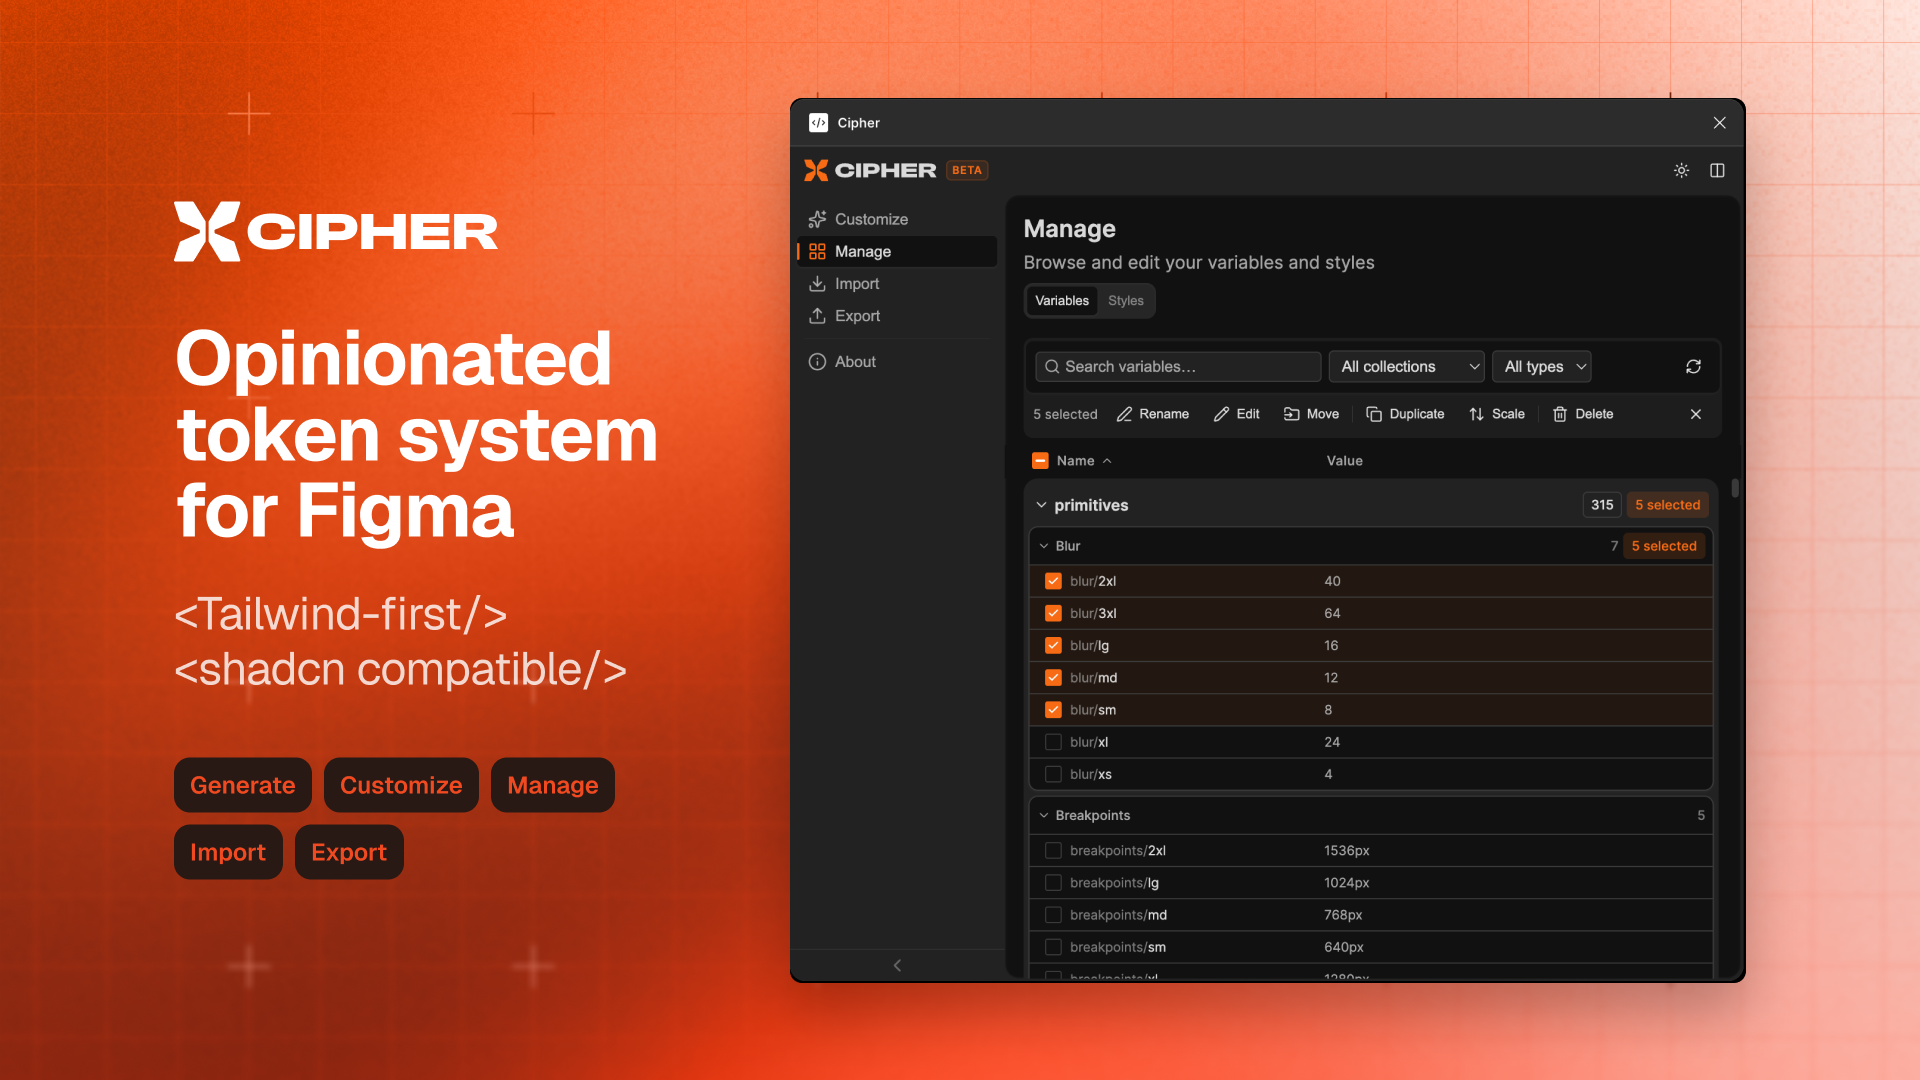
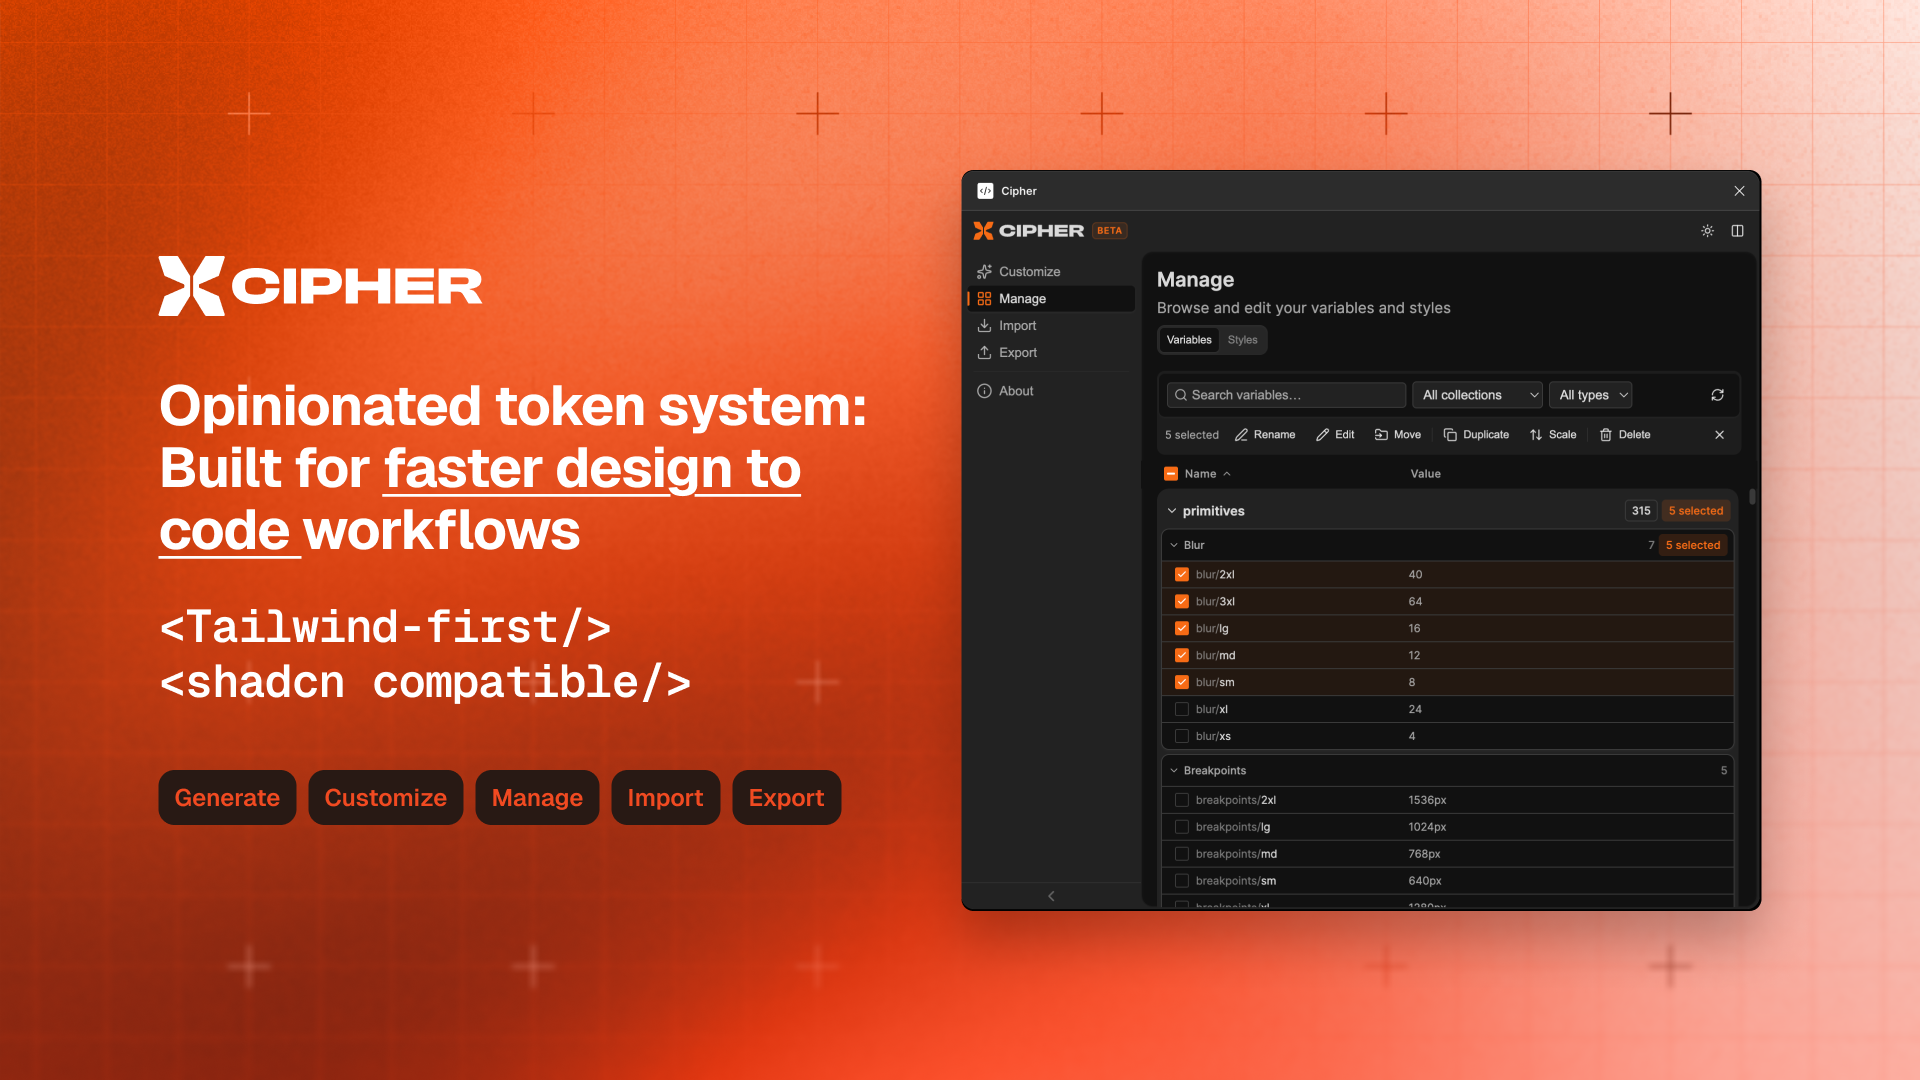
Set plugin ID, limit import to JSON only, update cover asset
- Set Figma plugin ID to 1613643367110247078
- Remove CSS import support, accept JSON files only
- Update marketplace cover image

diff --git a/components/import/FileImport.tsx b/components/import/FileImport.tsx
@@ -2,7 +2,6 @@ import { FolderOpen } from "lucide-react";
 import type React from "react";
 import { useRef, useState } from "react";
 import { usePostMessage } from "../../hooks/useFigmaMessage";
-import { parseCSS } from "../../parsers/css-parser";
 import type { ParsedTokens } from "../../types/tokens";
 import { getErrorMessage } from "../../utils/error-handler";
 import { LoadingState, useToast } from "../ui";
@@ -40,38 +39,9 @@ export function FileImport({
 	};
 
 	const parseContent = (content: string, fileName?: string) => {
-		// Detect CSS files by extension or content pattern
-		const isCSS =
-			fileName?.endsWith(".css") ||
-			(!content.trimStart().startsWith("{") &&
-				content.includes("--") &&
-				content.includes("{"));
-
-		if (isCSS) {
-			const result = parseCSS(content);
-			if (result.errors.length > 0) {
-				showError(
-					`CSS parse errors: ${result.errors.map((e) => e.message).join(", ")}`,
-				);
-			}
-			if (result.tokens.length > 0) {
-				_onTokensParsed({
-					tokens: result.tokens,
-					stats: {
-						total: result.tokens.length,
-						byCategory: {},
-						conflicts: 0,
-						errors: result.errors.length,
-					},
-					errors: result.errors.map((e) => ({
-						message: e.message,
-						line: e.line,
-						severity: "error" as const,
-					})),
-				});
-			} else {
-				showError("No CSS custom properties found in the file");
-			}
+		// Only accept JSON files
+		if (fileName && !fileName.endsWith(".json")) {
+			showError("Only JSON files are supported for import.");
 			return;
 		}
 
@@ -80,7 +50,7 @@ export function FileImport({
 			const data = JSON.parse(content);
 			if (data.$schema === "figma-styles-export") {
 				showError(
-					"This is a Figma Styles file. Import supports variable token files (JSON or CSS).",
+					"This is a Figma Styles file. Import supports variable token files (JSON).",
 				);
 				return;
 			}
@@ -141,7 +111,7 @@ export function FileImport({
 				tabIndex={0}
 			>
 				<input
-					accept=".json,.css"
+					accept=".json"
 					className={styles.hiddenInput}
 					onChange={handleFileSelect}
 					ref={fileInputRef}
@@ -163,7 +133,6 @@ export function FileImport({
 						</p>
 						<div className={styles.formatBadges}>
 							<span className={styles.formatBadge}>.json</span>
-							<span className={styles.formatBadge}>.css</span>
 						</div>
 					</>
 				)}
